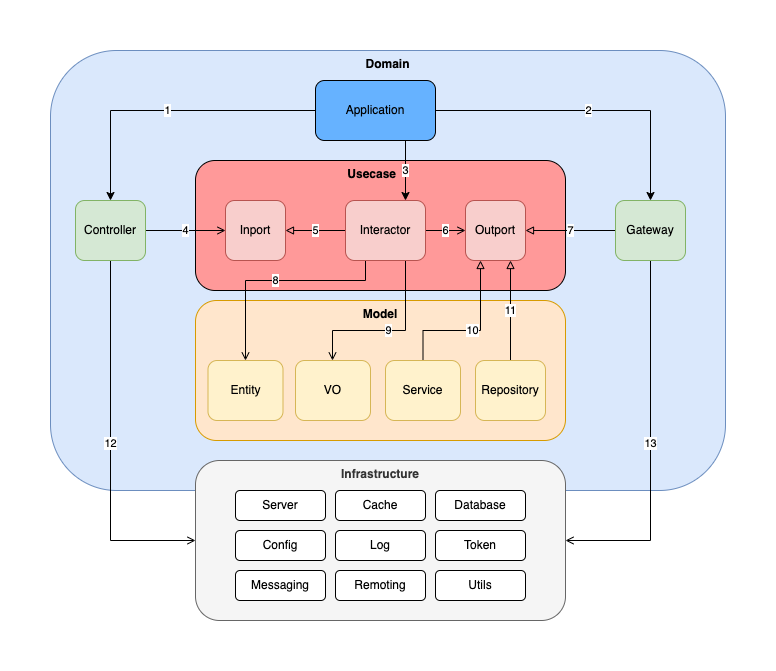
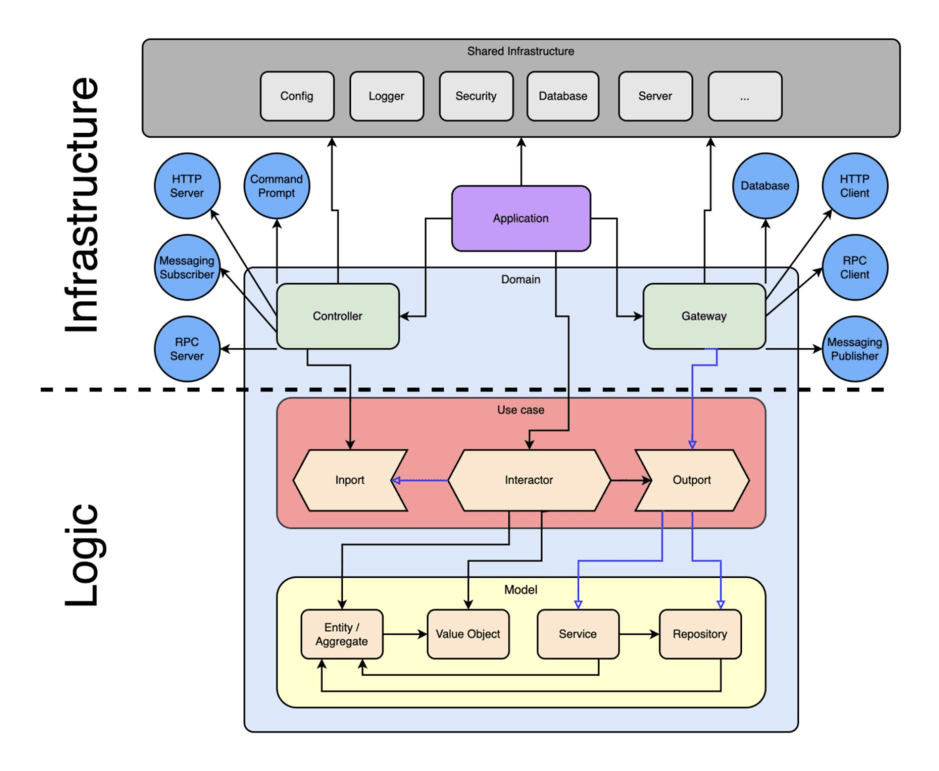
update image

diff --git a/README.md b/README.md
@@ -21,7 +21,7 @@ so that developers don't have to struggle with imitating the template projects t
 It helps you to focus on the core of logic and business process rather than manually create a file, name it, create a struct, interface or any other file.
 
 ## Architecture
-![gogen architecture](https://github.com/mirzaakhena/gogen/blob/master/gogen-architecture-mirza.jpeg)
+![gogen architecture](https://github.com/mirzaakhena/gogen/blob/master/gogen-architecture-1.png)
 
 ## Structure
 This generator has basic structure like this
